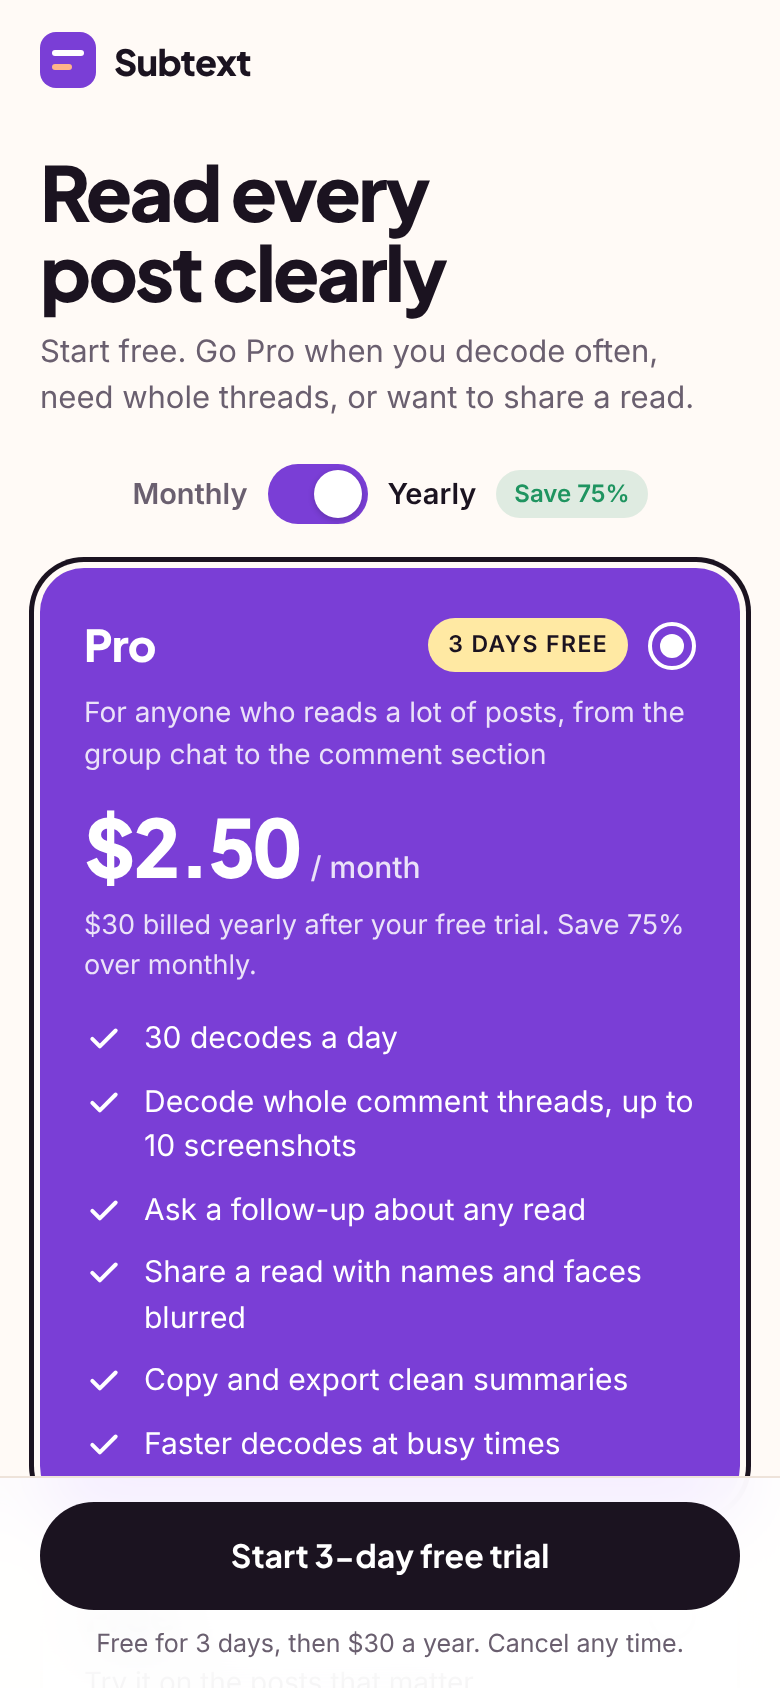
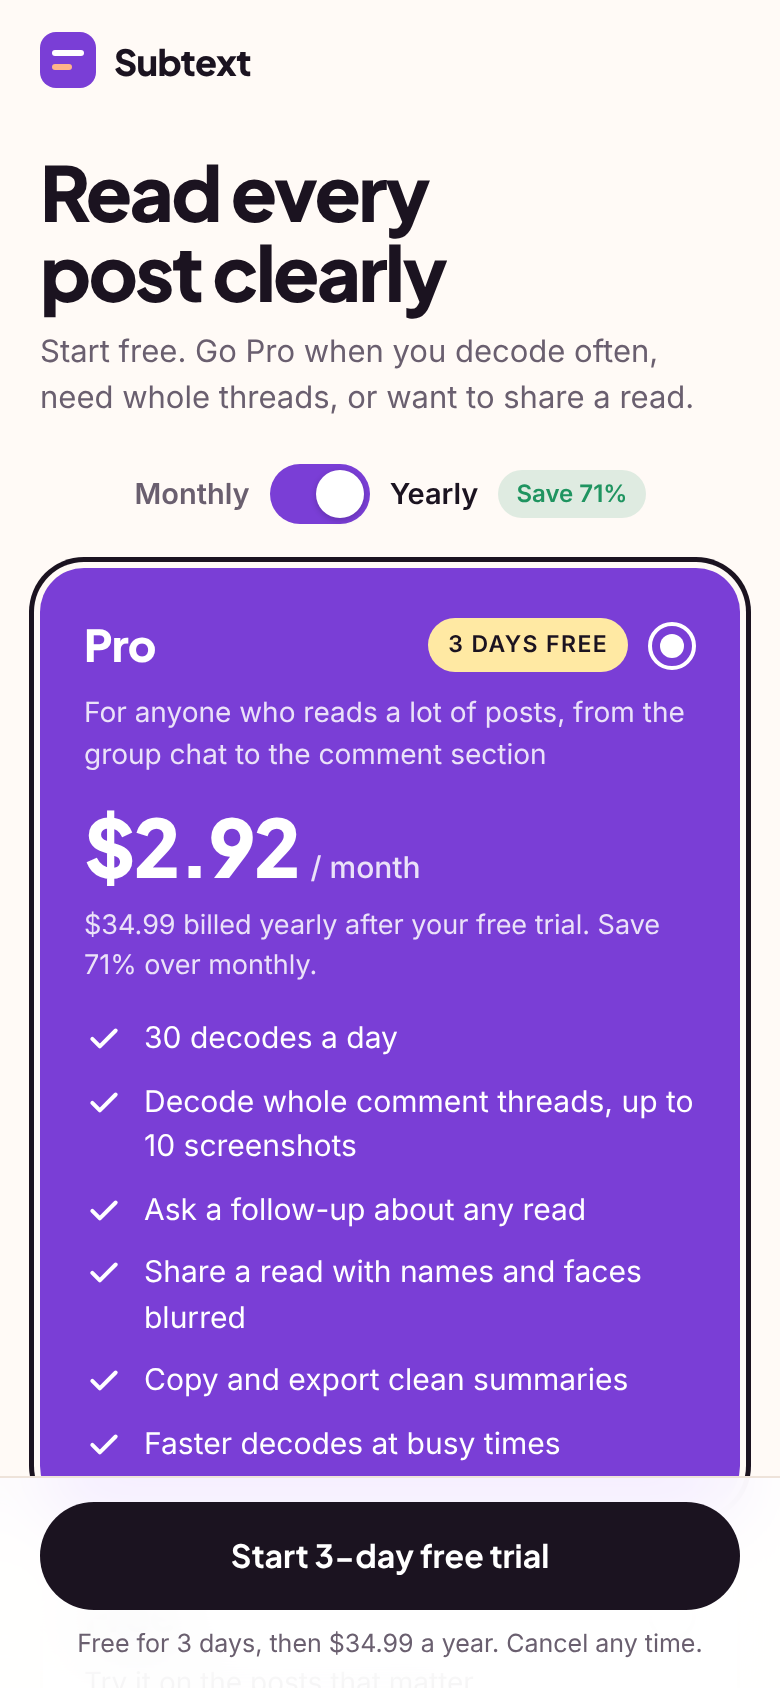
Pro at $9.99 a month or $34.99 a year, Free at 2 a day, model test
- Pricing: Pro $9.99 a month or $34.99 a year, 30 decodes a day. The
  3-day free trial now applies to yearly only; monthly subscribes
  directly. Free drops to 2 decodes a day (app, backend default, tests).
- Model comparison test (backend/eval): runs a folder of screenshots
  through each Claude model and writes a spreadsheet with each read,
  its speed, and its cost, ready for people to rate accuracy. The
  live model stays a deploy setting, no app update needed.
- Pro ad, ad script, and launch plan updated to the new prices.

Claude-Session: https://claude.ai/code/session_01EqzuJmzqRZJHdxvpcMV99t

diff --git a/mobile/src/app/plans.tsx b/mobile/src/app/plans.tsx
@@ -10,17 +10,17 @@ import { fonts, useTheme } from "../lib/theme";
 // Google Play billing (through RevenueCat) before launch. The trial length itself is set on
 // the subscription products in App Store Connect and Google Play Console.
 const PRO = {
-  monthly: 10,
-  yearly: 30,
+  monthly: 9.99,
+  yearly: 34.99,
   trialDays: 3,
   features: ["30 decodes a day", "Decode whole comment threads, up to 10 screenshots", "Ask a follow-up about any read", "Share a read with names and faces blurred", "Copy and export clean summaries", "Faster decodes at busy times"],
 };
-const FREE_FEATURES = ["3 decodes a day", "The full read: meaning, aim, evidence", "History kept on your phone"];
+const FREE_FEATURES = ["2 decodes a day", "The full read: meaning, aim, evidence", "History kept on your phone"];
 const money = (n: number) => `$${Number.isInteger(n) ? n : n.toFixed(2)}`;
 const SAVE = Math.round((1 - PRO.yearly / (PRO.monthly * 12)) * 100);
 
 const FAQ = [
-  ["How does the free trial work?", "You get Pro free for 3 days. Cancel before the trial ends and you won't be charged. Otherwise it renews at the plan you picked."],
+  ["How does the free trial work?", "The yearly plan starts with 3 days of Pro for free. Cancel before the trial ends and you won't be charged. Otherwise it renews yearly."],
   ["Why is there a daily limit on Pro?", "Each decode runs a full AI read. A daily limit keeps reads fast and the price low. Most people never reach it."],
   ["Can I cancel any time?", "Yes. Cancel in your App Store or Google Play subscriptions. You keep Pro until the period you paid for ends."],
   ["What happens to my history if I cancel?", "Nothing. Your decodes live on your phone, so they stay right where they are."],
@@ -50,7 +50,7 @@ export default function Plans() {
         <View style={{ flexDirection: "row", alignItems: "center", justifyContent: "space-between", gap: 10 }}>
           <Text style={{ fontFamily: fonts.display, fontSize: 22, color: fg }}>{pro ? "Pro" : "Free"}</Text>
           <View style={{ flexDirection: "row", gap: 10, alignItems: "center" }}>
-            {pro && (
+            {pro && yearly && (
               <View style={{ backgroundColor: t.tagBg, borderRadius: 999, paddingHorizontal: 10, paddingVertical: 5 }}>
                 <Text style={{ fontFamily: fonts.bodySemi, fontSize: 11, letterSpacing: 0.6, color: t.onColorInk }}>{`${PRO.trialDays} DAYS FREE`}</Text>
               </View>
@@ -68,7 +68,7 @@ export default function Plans() {
           <Text style={{ fontFamily: fonts.bodyMedium, fontSize: 15, color: fg, opacity: 0.85 }}>{pro ? "/ month" : "forever"}</Text>
         </View>
         <Text style={{ fontFamily: fonts.body, fontSize: 13.5, color: fg, opacity: 0.85, marginTop: -8 }}>
-          {!pro ? "No card needed." : yearly ? `${money(PRO.yearly)} billed yearly after your free trial. Save ${SAVE}% over monthly.` : "Billed monthly after your free trial. Cancel any time."}
+          {!pro ? "No card needed." : yearly ? `${money(PRO.yearly)} billed yearly after your free trial. Save ${SAVE}% over monthly.` : "Billed monthly. Cancel any time."}
         </Text>
         <View style={{ gap: 9 }}>
           {features.map((f) => (
@@ -109,13 +109,13 @@ export default function Plans() {
           {card("free")}
         </View>
 
-        <View style={{ marginTop: 18, borderRadius: 18, backgroundColor: t.peach, padding: 16, flexDirection: "row", alignItems: "center", gap: 14 }}>
+        {yearly && <View style={{ marginTop: 18, borderRadius: 18, backgroundColor: t.peach, padding: 16, flexDirection: "row", alignItems: "center", gap: 14 }}>
           <View style={{ alignItems: "center" }}>
             <Text style={{ fontFamily: fonts.display, fontSize: 28, color: t.ink, lineHeight: 30 }}>{PRO.trialDays}</Text>
             <Text style={{ fontFamily: fonts.bodySemi, fontSize: 10.5, letterSpacing: 0.8, color: t.ink }}>DAYS FREE</Text>
           </View>
-          <Body style={{ flex: 1, fontSize: 14, lineHeight: 20 }}>Try every Pro feature free for 3 days. Cancel before it ends and you pay nothing.</Body>
-        </View>
+          <Body style={{ flex: 1, fontSize: 14, lineHeight: 20 }}>The yearly plan starts with 3 days free. Cancel before it ends and you pay nothing.</Body>
+        </View>}
 
         <Section title="Questions">
           {FAQ.map(([q, a], i) => (
@@ -130,7 +130,7 @@ export default function Plans() {
         </Section>
 
         <Body muted style={{ textAlign: "center", fontSize: 12.5, marginTop: 24 }}>
-          Draft pricing in USD. After the free trial, Pro renews automatically through the App Store or Google Play until you cancel.
+          Draft pricing in USD. Pro renews automatically through the App Store or Google Play until you cancel. The free trial applies to the yearly plan.
         </Body>
         <Pressable onPress={() => setNote("Restore purchases connects with store billing before launch.")} accessibilityRole="button" style={{ alignSelf: "center", marginTop: 10 }}>
           <Text style={{ fontFamily: fonts.bodySemi, fontSize: 13, color: t.ink2, textDecorationLine: "underline" }}>Restore purchases</Text>
@@ -143,11 +143,11 @@ export default function Plans() {
           <Pill
             kind="dark"
             block
-            label={selected === "free" ? "Continue with Free" : `Start ${PRO.trialDays}-day free trial`}
+            label={selected === "free" ? "Continue with Free" : yearly ? `Start ${PRO.trialDays}-day free trial` : `Subscribe for ${money(PRO.monthly)} a month`}
             onPress={() => (selected === "free" ? router.back() : setNote("Checkout connects with App Store and Google Play billing before launch."))}
           />
           <Text style={{ textAlign: "center", fontFamily: fonts.body, fontSize: 12.5, color: t.ink2 }}>
-            {note || (selected === "free" ? "3 decodes a day, no card needed." : `Free for ${PRO.trialDays} days, then ${yearly ? money(PRO.yearly) + " a year" : money(PRO.monthly) + " a month"}. Cancel any time.`)}
+            {note || (selected === "free" ? "2 decodes a day, no card needed." : yearly ? `Free for ${PRO.trialDays} days, then ${money(PRO.yearly)} a year. Cancel any time.` : "Billed monthly. Cancel any time.")}
           </Text>
         </View>
       </View>

diff --git a/backend/eval/compare-models.ts b/backend/eval/compare-models.ts
@@ -1,0 +1,90 @@
+// Model comparison test: runs every screenshot in a folder through each model and writes a
+// spreadsheet (CSV) with each read, its speed, and its cost, plus empty columns for people to rate.
+//
+//   ANTHROPIC_API_KEY=... npm run compare -- eval/screenshots
+//
+// Optional: eval/screenshots/contexts.csv with lines like  story1.png,we argued last night
+// Optional: MODELS=claude-haiku-5-5,claude-sonnet-5-5 to choose models (default: all three).
+import Anthropic from "@anthropic-ai/sdk";
+import { existsSync, readdirSync, readFileSync, writeFileSync } from "node:fs";
+import { extname, join } from "node:path";
+import { decodeDetailed, type DecodeInput } from "../src/decode.js";
+
+// Dollars per million tokens: [input, output]. Check current prices before relying on the totals.
+const PRICES: Record<string, [number, number]> = {
+  "claude-opus-5-5": [4, 20],
+  "claude-sonnet-5-5": [2, 10],
+  "claude-haiku-5-5": [0.1, 0.5],
+};
+const MODELS = (process.env.MODELS || Object.keys(PRICES).join(","))
+  .split(",")
+  .map((m) => m.trim())
+  .filter(Boolean);
+const TYPES: Record<string, DecodeInput["mediaType"]> = { ".png": "image/png", ".jpg": "image/jpeg", ".jpeg": "image/jpeg", ".webp": "image/webp" };
+
+function costOf(model: string, u: Anthropic.Usage): number {
+  const [inP, outP] = PRICES[model] ?? [0, 0];
+  const cachedRead = u.cache_read_input_tokens ?? 0;
+  const cachedWrite = u.cache_creation_input_tokens ?? 0;
+  return (u.input_tokens * inP + cachedRead * inP * 0.1 + cachedWrite * inP * 1.25 + u.output_tokens * outP) / 1_000_000;
+}
+const csv = (v: unknown) => `"${String(v ?? "").replace(/"/g, '""')}"`;
+
+const dir = process.argv[2] || "eval/screenshots";
+const files = existsSync(dir) ? readdirSync(dir).filter((f) => TYPES[extname(f).toLowerCase()]).sort() : [];
+if (!files.length) {
+  console.error(`No screenshots found in ${dir}. Add PNG or JPEG files and run again.`);
+  process.exit(1);
+}
+const contexts = new Map<string, string>();
+const ctxFile = join(dir, "contexts.csv");
+if (existsSync(ctxFile)) {
+  for (const line of readFileSync(ctxFile, "utf8").split("\n")) {
+    const i = line.indexOf(",");
+    if (i > 0) contexts.set(line.slice(0, i).trim(), line.slice(i + 1).trim());
+  }
+}
+
+const client = new Anthropic();
+const header = ["screenshot", "context", "model", "verdict", "reason", "meaning", "evidence", "seconds", "cost_usd", "accurate_yes_no", "notes"];
+const rows = [header.join(",")];
+const totals = new Map<string, { cost: number; secs: number; n: number; errors: number }>();
+
+for (const file of files) {
+  const input: DecodeInput = {
+    image: readFileSync(join(dir, file)).toString("base64"),
+    mediaType: TYPES[extname(file).toLowerCase()],
+    context: contexts.get(file) ?? "",
+  };
+  for (const model of MODELS) {
+    const t = totals.get(model) ?? { cost: 0, secs: 0, n: 0, errors: 0 };
+    const started = Date.now();
+    try {
+      const { result, usage } = await decodeDetailed(client, input, model);
+      const secs = (Date.now() - started) / 1000;
+      const cost = costOf(model, usage);
+      t.cost += cost;
+      t.secs += secs;
+      t.n += 1;
+      const verdict = result.refused ? "Not read" : result.aimed_at_you.verdict;
+      const evidence = result.evidence.map((e) => `${e.cue}: ${e.why}`).join(" | ");
+      rows.push([file, input.context, model, verdict, result.aimed_at_you.reason, result.meaning, evidence, secs.toFixed(1), cost.toFixed(4), "", ""].map(csv).join(","));
+      console.log(`${file}  ${model}  ${verdict}  ${secs.toFixed(1)}s  $${cost.toFixed(4)}`);
+    } catch (e) {
+      t.errors += 1;
+      console.error(`${file}  ${model}  failed: ${e instanceof Error ? e.message : String(e)}`);
+    }
+    totals.set(model, t);
+  }
+}
+
+const stamp = new Date().toISOString().slice(0, 16).replace(/[:T]/g, "-");
+const out = join("eval", `results-${stamp}.csv`);
+writeFileSync(out, rows.join("\n") + "\n");
+console.log(`\nWrote ${out}. Rate each read in the accurate_yes_no column.\n`);
+console.log("model                 avg cost    avg secs   per 1,000 decodes   failures");
+for (const [model, t] of totals) {
+  const avg = t.n ? t.cost / t.n : 0;
+  const secs = t.n ? t.secs / t.n : 0;
+  console.log(`${model.padEnd(21)} $${avg.toFixed(4)}    ${secs.toFixed(1).padStart(5)}s     $${(avg * 1000).toFixed(2).padStart(8)}          ${t.errors}`);
+}

diff --git a/backend/src/decode.ts b/backend/src/decode.ts
@@ -50,10 +50,14 @@ const REFUSED: DecodeResult = {
   other_readings: [],
 };
 
-export async function decodeScreenshot(
-  client: Anthropic,
-  input: { image: string; mediaType: "image/jpeg" | "image/png" | "image/webp" | "image/gif"; context: string },
-): Promise<DecodeResult> {
+export type DecodeInput = { image: string; mediaType: "image/jpeg" | "image/png" | "image/webp" | "image/gif"; context: string };
+
+export async function decodeScreenshot(client: Anthropic, input: DecodeInput): Promise<DecodeResult> {
+  return (await decodeDetailed(client, input, MODEL)).result;
+}
+
+/** The same decode with a chosen model, plus token usage. Used by the model comparison test. */
+export async function decodeDetailed(client: Anthropic, input: DecodeInput, model: string): Promise<{ result: DecodeResult; usage: Anthropic.Usage }> {
   const userText = [
     `Current date and time: ${new Date().toISOString()}.`,
     input.context ? `User's context: "${input.context}"` : "User's context: none given.",
@@ -61,7 +65,7 @@ export async function decodeScreenshot(
   ].join("\n");
 
   const response = await client.messages.parse({
-    model: MODEL,
+    model,
     max_tokens: 4000,
     system: [{ type: "text", text: SYSTEM_PROMPT, cache_control: { type: "ephemeral" } }],
     messages: [
@@ -76,11 +80,11 @@ export async function decodeScreenshot(
     output_config: { format: zodOutputFormat(ResultSchema), effort: "medium" },
   });
 
-  if (response.stop_reason === "refusal") return REFUSED;
+  if (response.stop_reason === "refusal") return { result: REFUSED, usage: response.usage };
   const parsed = response.parsed_output;
   if (!parsed) throw new Error("The model returned a result that did not match the expected structure.");
   if (!input.context && parsed.aimed_at_you.verdict === "Likely") parsed.aimed_at_you.verdict = "Possibly";
-  return parsed;
+  return { result: parsed, usage: response.usage };
 }
 
 export const SAMPLE_RESULT: DecodeResult = {

diff --git a/backend/bin/subtext.ts b/backend/bin/subtext.ts
@@ -7,7 +7,7 @@ const reserved = app.node.tryGetContext("reservedConcurrency");
 new SubtextStack(app, "Subtext", {
   env: { account: process.env.CDK_DEFAULT_ACCOUNT, region: process.env.CDK_DEFAULT_REGION ?? "us-east-1" },
   model: app.node.tryGetContext("model"),
-  freeDailyCap: Number(app.node.tryGetContext("freeDailyCap") ?? 3),
+  freeDailyCap: Number(app.node.tryGetContext("freeDailyCap") ?? 2),
   ipDailyCap: Number(app.node.tryGetContext("ipDailyCap") ?? 40),
   reservedConcurrency: reserved ? Number(reserved) : undefined,
   description: "Subtext decode service: screenshot in, decoded read out. Stores no post content.",

diff --git a/backend/src/handler.ts b/backend/src/handler.ts
@@ -6,7 +6,7 @@ import type { LambdaFunctionURLEvent } from "aws-lambda";
 import { decodeScreenshot, SAMPLE_RESULT } from "./decode.js";
 import { DynamoLimiter, MemoryLimiter, recordFlag, type Limiter } from "./limits.js";
 
-const FREE_DAILY_CAP = Number(process.env.FREE_DAILY_CAP || 3);
+const FREE_DAILY_CAP = Number(process.env.FREE_DAILY_CAP || 2);
 const IP_DAILY_CAP = Number(process.env.IP_DAILY_CAP || 40);
 const MAX_IMAGE_CHARS = 6_000_000; // about 4.5 MB of image after base64
 const MEDIA_TYPES = ["image/jpeg", "image/png", "image/webp", "image/gif"] as const;

diff --git a/mobile/src/app/(tabs)/index.tsx b/mobile/src/app/(tabs)/index.tsx
@@ -74,7 +74,7 @@ export default function Home() {
           </View>
           <View style={{ flex: 1 }}>
             <Text style={{ fontFamily: fonts.displayBold, fontSize: 16, color: t.ink }}>Subtext Pro</Text>
-            <Body muted style={{ fontSize: 14 }}>30 decodes a day, whole threads, and sharing. 3 days free.</Body>
+            <Body muted style={{ fontSize: 14 }}>30 decodes a day, whole threads, and sharing. Try yearly free for 3 days.</Body>
           </View>
         </Pressable>
       </Section>

diff --git a/backend/test/handler.test.ts b/backend/test/handler.test.ts
@@ -36,7 +36,7 @@ test("rejects a bad media type and a missing image", async () => {
 
 test("returns a result card and enforces the free daily cap", async () => {
   __setForTests({ sample: true, limiter: new MemoryLimiter() });
-  for (let i = 0; i < 3; i++) {
+  for (let i = 0; i < 2; i++) {
     const out = await handler(event("POST", "/decode", { image: IMAGE, mediaType: "image/jpeg", context: "we argued" }));
     assert.equal(out.statusCode, 200);
     const body = JSON.parse(out.body);

diff --git a/backend/lib/subtext-stack.ts b/backend/lib/subtext-stack.ts
@@ -52,7 +52,7 @@ export class SubtextStack extends Stack {
         TABLE_NAME: usage.tableName,
         SECRET_ID: apiKey.secretArn,
         MODEL: props.model ?? "claude-opus-5-5",
-        FREE_DAILY_CAP: String(props.freeDailyCap ?? 3),
+        FREE_DAILY_CAP: String(props.freeDailyCap ?? 2),
         IP_DAILY_CAP: String(props.ipDailyCap ?? 40),
       },
       bundling: {

diff --git a/docs/launch-plan.md b/docs/launch-plan.md
@@ -6,8 +6,8 @@ Everything in one place: what's built, what's next and who does it, plus marketi
 
 | Plan | Price | Decodes a day | Trial |
 | --- | --- | --- | --- |
-| Free | $0 | 3 | None |
-| Pro | $10 a month or $30 a year | 30 | 3 days free |
+| Free | $0 | 2 | None |
+| Pro | $9.99 a month or $34.99 a year | 30 | 3 days free on yearly |
 
 The look is sunset, light touch: warm white background, violet as the lead color, peach and butter-yellow cards, black buttons. The example story is a generic story with no platform branding.
 
@@ -80,11 +80,11 @@ Subject: Your Subtext beta is ready
 
 **3. Launch announcement**
 Subject: Subtext is live
-> Read between the lines. Subtext is now on the App Store and Google Play. Your first 3 decodes every day are free. Pro gives you 30 a day, whole-thread decodes, and blurred share cards, free for 3 days.
+> Read between the lines. Subtext is now on the App Store and Google Play. Your first 2 decodes every day are free. Pro gives you 30 a day, whole-thread decodes, and blurred share cards. Try yearly free for 3 days.
 
 **4. Pro nudge, after someone hits the free limit twice**
 Subject: Out of free decodes again?
-> Pro gives you 30 decodes a day, whole-thread reads, and blurred share cards. Try it free for 3 days, then $10 a month or $30 a year. Cancel any time.
+> Pro gives you 30 decodes a day, whole-thread reads, and blurred share cards. Try yearly free for 3 days, then $34.99 a year, or go monthly for $9.99. Cancel any time.
 
 **5. Monthly newsletter, "Decoded"**
 Subject: 3 posts, decoded

diff --git a/backend/eval/README.md b/backend/eval/README.md
@@ -1,0 +1,20 @@
+# Model comparison test
+
+Runs the same screenshots through each Claude model so you can compare read quality, speed, and cost before choosing one.
+
+1. Put 50 to 200 screenshots of made-up or permission-given posts in `eval/screenshots/` (PNG or JPEG).
+2. Optional: add `eval/screenshots/contexts.csv` with one line per screenshot, like `story1.png,we argued last night`.
+3. Run it:
+
+```bash
+cd backend
+ANTHROPIC_API_KEY=your-key npm run compare
+```
+
+4. Open the `eval/results-….csv` file it writes in Google Sheets or Excel, and mark each read accurate or not.
+5. Pick the cheapest model whose reads are rated accurate at least 70% of the time, the bar from the PDR.
+6. Switch the live service to it with no app update: `npm run deploy -- -c model=claude-haiku-5-5`.
+
+Each run costs real API usage: the number of screenshots times each model's cost per decode. 100 screenshots across all three models is roughly $5 at current prices.
+
+Screenshots and results in this folder are kept out of git.

diff --git a/marketing/ad-scripts.md b/marketing/ad-scripts.md
@@ -95,7 +95,7 @@ Still: `subtext-ad-07-pro.png`
 | --- | --- | --- |
 | 0 to 2 s | A long comment thread scrolls by | "One post is easy. A whole comment section?" |
 | 2 to 10 s | Multiple screenshots go in, one read comes out | "Subtext Pro reads the whole thread, answers follow-up questions, and lets you share a read with names blurred." |
-| 10 to 15 s | "3 days free, then $30 a year or $10 a month" | "Try Pro free for three days." |
+| 10 to 15 s | "3 days free, then $34.99 a year, or $9.99 a month" | "Try yearly free for three days." |
 
 Caption: For the comment section detectives. #commentsection #pro
 

diff --git a/backend/README.md b/backend/README.md
@@ -45,7 +45,7 @@ Pass any of these to deploy with `-c`, for example `npm run deploy -- -c freeDai
 
 | Setting | Default | What it does |
 | --- | --- | --- |
-| `freeDailyCap` | 3 | Free decodes per install per day |
+| `freeDailyCap` | 2 | Free decodes per install per day |
 | `ipDailyCap` | 40 | Decodes per network per day, a backstop against reinstalling to reset the free cap |
 | `model` | `claude-opus-5-5` | Claude model used for reads |
 | `reservedConcurrency` | unset | Hard ceiling on decodes running at once. Leave unset on a new AWS account |
